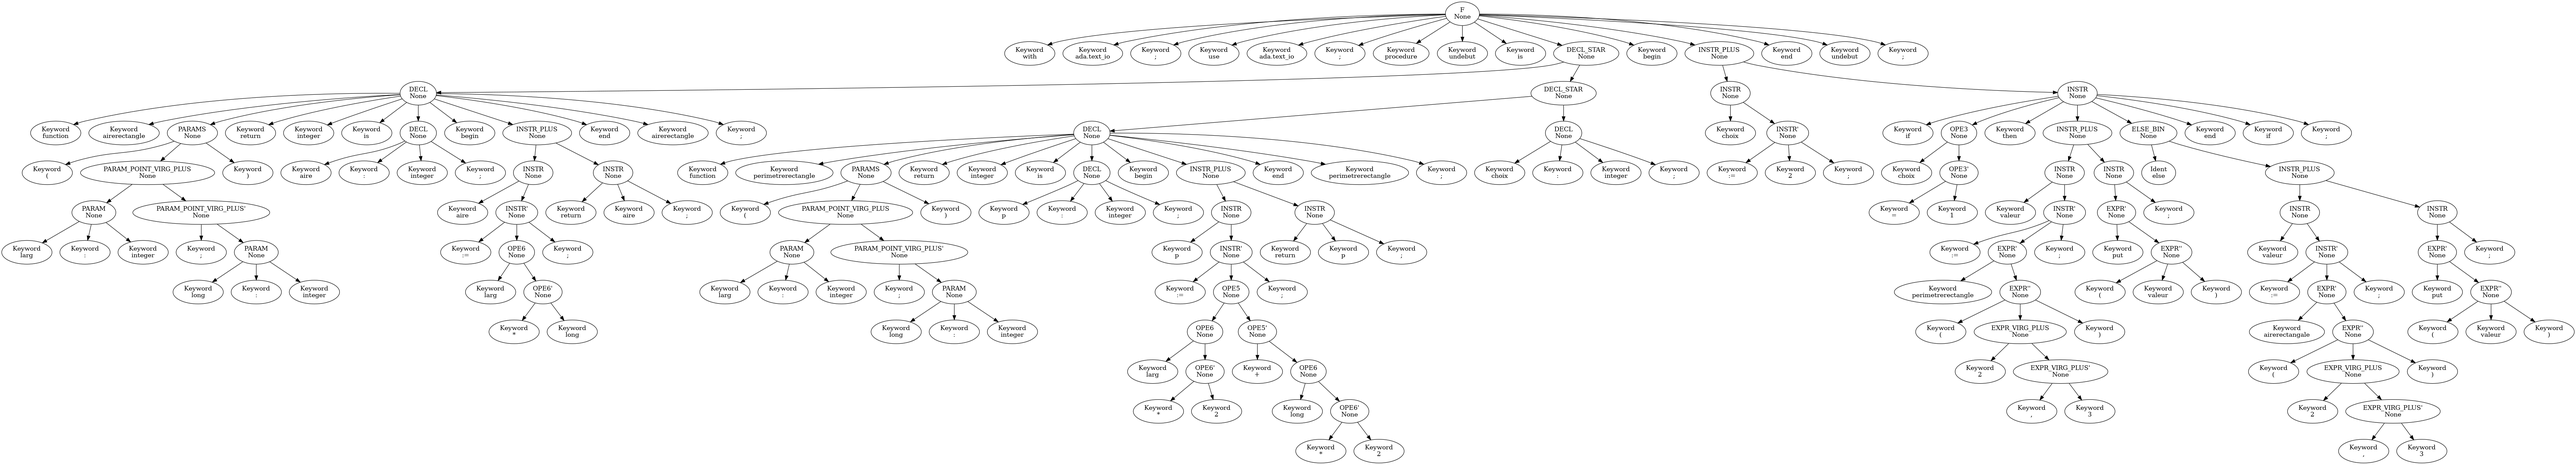
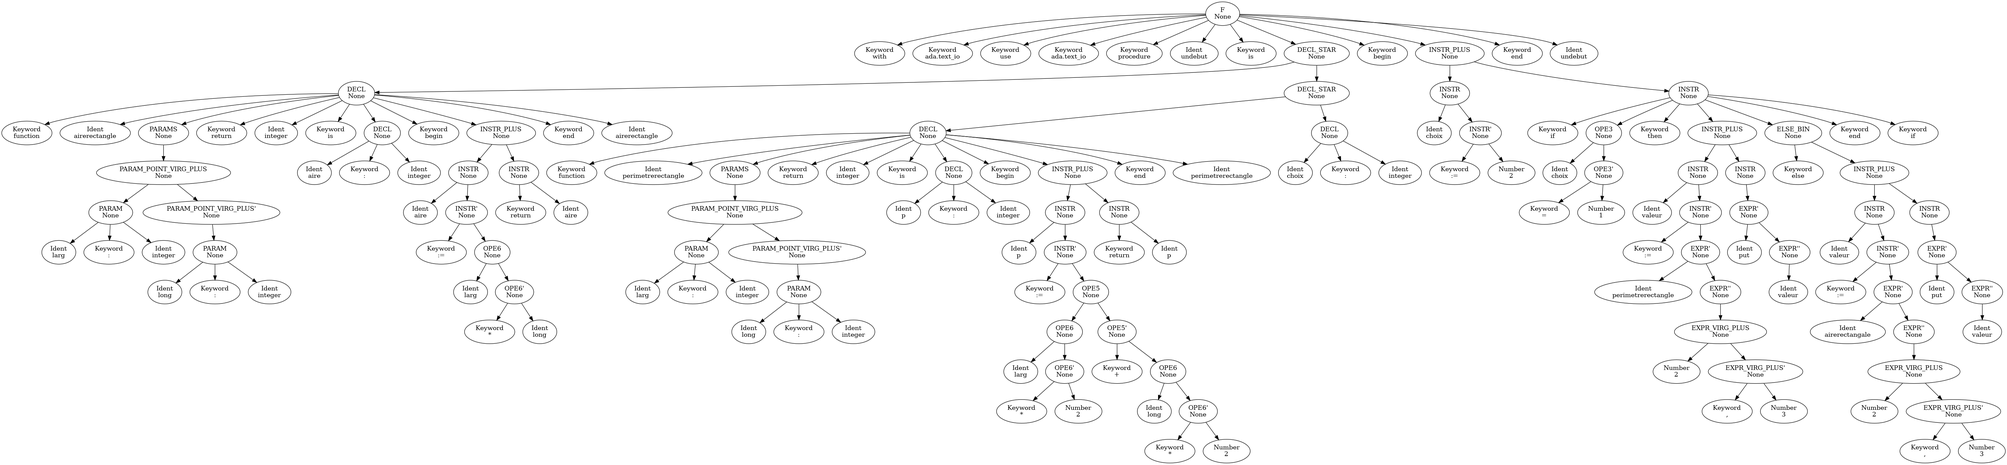
arbre sans ();

diff --git a/parseur/prune_ast.py b/parseur/prune_ast.py
@@ -78,18 +78,43 @@ def inverser_enfants_arbre(node):
             inverser_enfants_arbre(enfant)  # Répéter récursivement pour chaque enfant
 
 
-#supprimer les feuilles avec les parenthèses et les ; 
-
-def supprimer_feuilles(node):
+# remove unles node like ";" "(" ")"
+def remove_unless_node(node):
+    # Élaguer récursivement les enfants d'abord
+    children_to_keep = []
     for child in node.children:
-        if child.value == "(" or child.value == ")" or child.value == ";":
-            node.remove_child(child)
-        else:
-            supprimer_feuilles(child)
-
-
-
-
-        
-        
+        pruned_child = remove_unless_node(child)
+        if pruned_child or (child.value is None and any(isinstance(grandchild.value, tuple) for grandchild in child.children)):
+            children_to_keep.append(child)
     
+    # Mettre à jour les enfants après l'élagage
+    node.children = children_to_keep
+    
+    # Si après l'élagage il ne reste aucun enfant et que la valeur du nœud est élagable, élaguer le nœud
+    if not node.children and node.value in (";", "(", ")"):
+        return None  # Le nœud est élagable
+
+    return node  # Garder le nœud
+
+def remonter_operateur(node):
+    if node.fct[:3]=="OPE":
+        node=node.children[0]
+        
+
+
+    # Si le nœud a exactement un enfant et que la valeur du nœud est None, remonter cet enfant
+    if len(node.children) == 1 and node.value is None:
+        return remonter_operateur(node.children[0])
+
+    # Sinon, appliquer la fonction récursivement à tous les enfants
+    new_children = []
+    for child in node.children:
+        new_child = remonter_operateur(child)
+        if new_child:
+            new_children.append(new_child)
+    
+    node.children = new_children
+
+    return node
+
+

diff --git a/test_ast.py b/test_ast.py
@@ -86,11 +86,16 @@ inverser_enfants_arbre(arbre)  # Inverser l'ordre des enfants dans l'arbre
 
 #afficher l'arbre initial
 show.visualize_tree(arbre).render(filename='syntax_tree', directory='./output', cleanup=True, format='png', engine='dot')
+show.visualize_tree_hor(arbre,orientation='LR').render(filename='syntax_tree_hor', directory='./output', cleanup=True, format='png', engine='dot')
 
 #afficher l'arbre après élagage
 arbre_elague = prune.elaguer_arbre(arbre)
 arbre_fi = prune.remonter_feuilles(arbre_elague)
 show.visualize_tree(arbre_fi).render(filename='prun_syntax_tree_final', directory='./output', cleanup=True, format='png', engine='dot')
 
-arbre_supp = prune.supprimer_feuilles(arbre_fi)
-show.visualize_tree(arbre_supp).render(filename='prun_syntax_tree_final', directory='./output', cleanup=True, format='png', engine='dot')
+arbre_sup = prune.remove_unless_node(arbre_fi)
+show.visualize_tree(arbre_sup).render(filename='syntax_tree_final', directory='./output', cleanup=True, format='png', engine='dot')
+
+
+show.visualize_tree_hor(arbre_fi,orientation='LR').render(filename='prun_syntax_tree_final_hor', directory='./output', cleanup=True, format='png', engine='dot')
+show.visualize_tree_hor(arbre_sup,orientation='LR').render(filename='syntax_tree_final_hor', directory='./output', cleanup=True, format='png', engine='dot')

diff --git a/parseur/show.py b/parseur/show.py
@@ -29,7 +29,7 @@ class Node:
         return f"Node({self.fct}, children={self.children}, value={self.value})"
 
 
-def visualize_tree(node, graph=None):
+def visualize_tree(node, graph=None, orentation='TB'):
     if graph is None:
         graph = Digraph(format='png')  # Vous pouvez choisir un format différent si vous le souhaitez
 
@@ -37,6 +37,18 @@ def visualize_tree(node, graph=None):
 
     for child in node.children:
         visualize_tree(child, graph)
+        graph.edge(str(id(node)), str(id(child)))
+
+    return graph
+
+def visualize_tree_hor(node, graph=None, orientation='TB'):
+    if graph is None:
+        graph = Digraph(format='png', graph_attr={'rankdir': orientation})
+
+    graph.node(str(id(node)), label=f"{node.fct}\n{node.value}")
+
+    for child in node.children:
+        visualize_tree(child, graph, orientation)
         graph.edge(str(id(node)), str(id(child)))
 
     return graph
